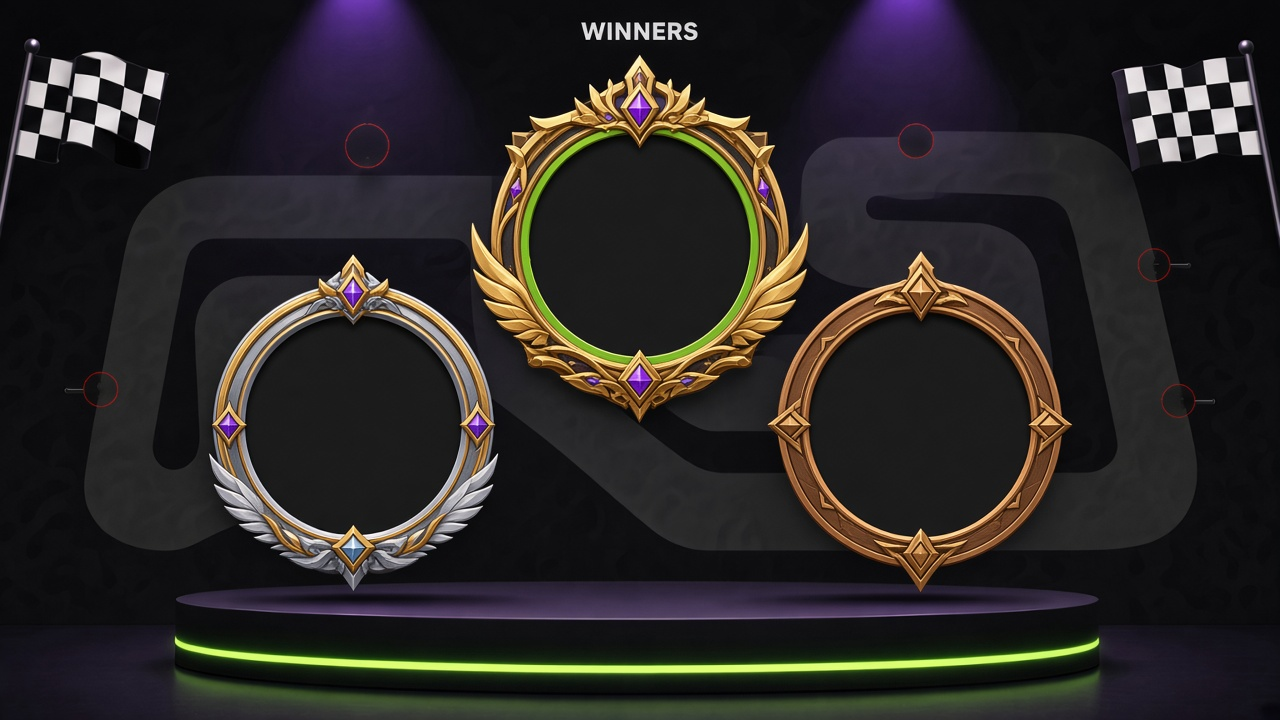
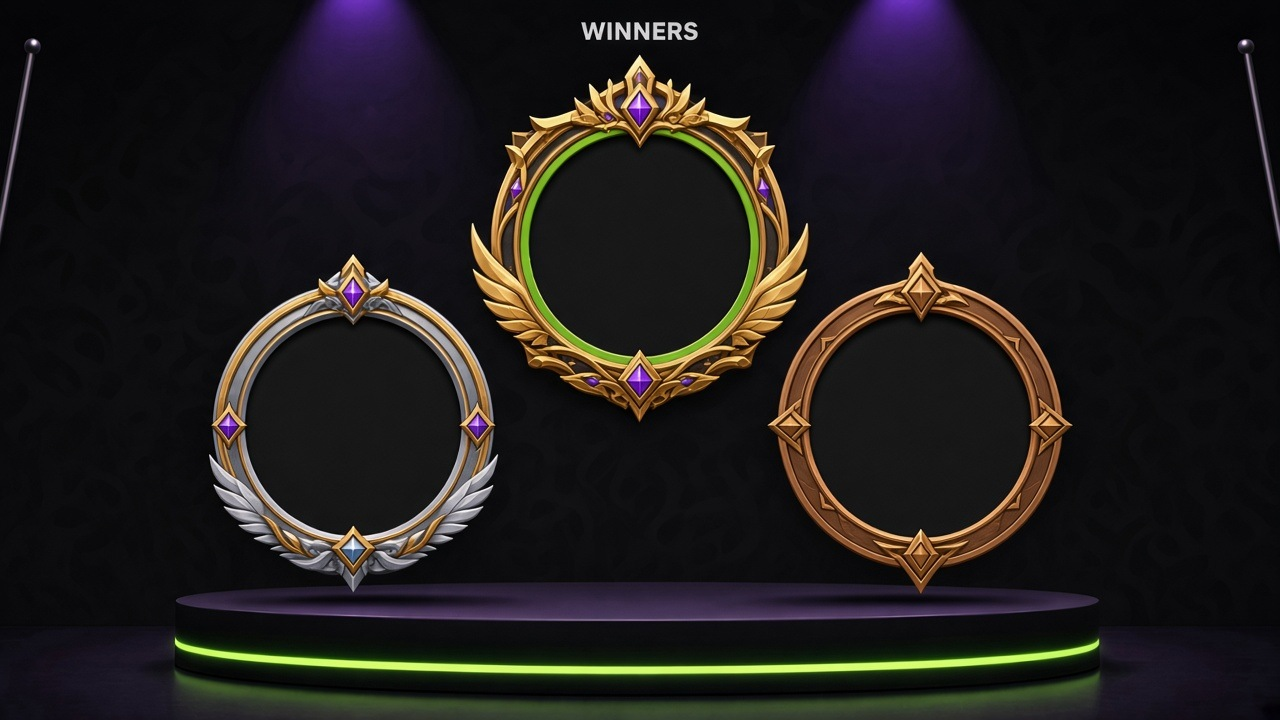
fix(pit-stop): убрать красные маркеры с подиума, флаги с волной

diff --git a/frontend/app/components/pit-stop/PitStopWinnersPodium.vue b/frontend/app/components/pit-stop/PitStopWinnersPodium.vue
@@ -8,6 +8,12 @@
       height="720"
       draggable="false"
     />
+    <div class="ps-podium__flag ps-podium__flag--left" aria-hidden="true">
+      <img class="ps-podium__flag-img" :src="FLAG_IMG" alt="" draggable="false" />
+    </div>
+    <div class="ps-podium__flag ps-podium__flag--right" aria-hidden="true">
+      <img class="ps-podium__flag-img" :src="FLAG_IMG" alt="" draggable="false" />
+    </div>
     <div
       v-for="slot in slots"
       :key="slot.rank"
@@ -28,11 +34,11 @@
 </template>
 
 <script setup lang="ts">
-/** Геометрия кругов под маску — % от кадра 1280×720 (эскиз c3). */
+/** Геометрия кругов под маску — % от кадра 1280×720 (c4 clean). */
 const FACE_LAYOUT: Record<1 | 2 | 3, { cx: number; cy: number; d: number }> = {
-  1: { cx: 49.92, cy: 34.31, d: 16.2 },
-  2: { cx: 27.66, cy: 59.17, d: 15.4 },
-  3: { cx: 72.27, cy: 60.0, d: 15.8 }
+  1: { cx: 49.92, cy: 33.89, d: 16.0 },
+  2: { cx: 27.5, cy: 58.47, d: 15.2 },
+  3: { cx: 71.8, cy: 58.33, d: 15.6 }
 };
 
 export type PodiumWinner = {
@@ -45,7 +51,8 @@ const props = defineProps<{
   winners: PodiumWinner[];
 }>();
 
-const PODIUM_IMG = '/events/pit-stop-14/winners-podium.jpg?v=1';
+const PODIUM_IMG = '/events/pit-stop-14/winners-podium.jpg?v=2';
+const FLAG_IMG = '/events/pit-stop-14/flag-cloth.png?v=1';
 
 const byRank = computed(() => {
   const map = new Map<number, PodiumWinner>();
@@ -85,6 +92,7 @@ const ariaLabel = computed(() => {
   width: 100%;
   height: 100%;
   line-height: 0;
+  overflow: hidden;
 }
 .ps-podium__bg {
   display: block;
@@ -94,14 +102,82 @@ const ariaLabel = computed(() => {
   user-select: none;
   pointer-events: none;
 }
+
+.ps-podium__flag {
+  position: absolute;
+  top: 5%;
+  width: 13.5%;
+  z-index: 2;
+  pointer-events: none;
+  will-change: transform;
+}
+.ps-podium__flag--left {
+  left: 0.6%;
+  transform-origin: 8% 12%;
+  animation: ps-flag-wave-l 2.6s ease-in-out infinite;
+}
+.ps-podium__flag--right {
+  right: 0.6%;
+  transform-origin: 92% 12%;
+  animation: ps-flag-wave-r 2.6s ease-in-out infinite;
+  animation-delay: -1.2s;
+}
+.ps-podium__flag-img {
+  display: block;
+  width: 100%;
+  height: auto;
+  filter: drop-shadow(2px 4px 6px rgba(0, 0, 0, 0.55));
+}
+.ps-podium__flag--right .ps-podium__flag-img {
+  transform: scaleX(-1);
+}
+
+@keyframes ps-flag-wave-l {
+  0%,
+  100% {
+    transform: rotate(-7deg) skewX(-4deg) skewY(1.5deg);
+  }
+  25% {
+    transform: rotate(-1deg) skewX(3deg) skewY(-2deg);
+  }
+  50% {
+    transform: rotate(8deg) skewX(-2deg) skewY(2deg);
+  }
+  75% {
+    transform: rotate(2deg) skewX(4deg) skewY(-1deg);
+  }
+}
+@keyframes ps-flag-wave-r {
+  0%,
+  100% {
+    transform: rotate(7deg) skewX(4deg) skewY(-1.5deg);
+  }
+  25% {
+    transform: rotate(1deg) skewX(-3deg) skewY(2deg);
+  }
+  50% {
+    transform: rotate(-8deg) skewX(2deg) skewY(-2deg);
+  }
+  75% {
+    transform: rotate(-2deg) skewX(-4deg) skewY(1deg);
+  }
+}
+
+@media (prefers-reduced-motion: reduce) {
+  .ps-podium__flag--left,
+  .ps-podium__flag--right {
+    animation: none;
+  }
+}
+
 .ps-podium__face {
   position: absolute;
+  z-index: 3;
   aspect-ratio: 1;
   transform: translate(-50%, -50%);
   border-radius: 50%;
   overflow: hidden;
   background: #0a0a0a;
-  /* рамка арта снаружи — здесь только маска лица */
   box-shadow: inset 0 0 0 1px rgba(0, 0, 0, 0.35);
 }
 .ps-podium__empty {

diff --git a/docs/CHANGELOG.md b/docs/CHANGELOG.md
@@ -9,7 +9,8 @@
 - С **10.10 10:00 МСК** (на **стейдже** — сразу) хаб `/event/pit-stop`: вместо трассы и гаража — статика `winners-podium.jpg` с лицами топ‑3; рейтинг выше без «Обновлено…».
 - Компонент `PitStopWinnersPodium.vue`; переключатель `isPitStopResultsPageVisible` в `timeline.ts`.
 - Аватары: финальные winners API или live топ‑3 рейтинга (превью до фиксации).
-- Проверка: стейдж → `/event/pit-stop` — подиум + таблица, без гаража и гонки.
+- Арт без красных маркеров; клетчатые флаги — отдельный `flag-cloth.png` с CSS-волной.
+- Проверка: стейдж → `/event/pit-stop` — подиум + таблица, без гаража и гонки; флаги колышутся.
 
 ## 2026-10-07
 
